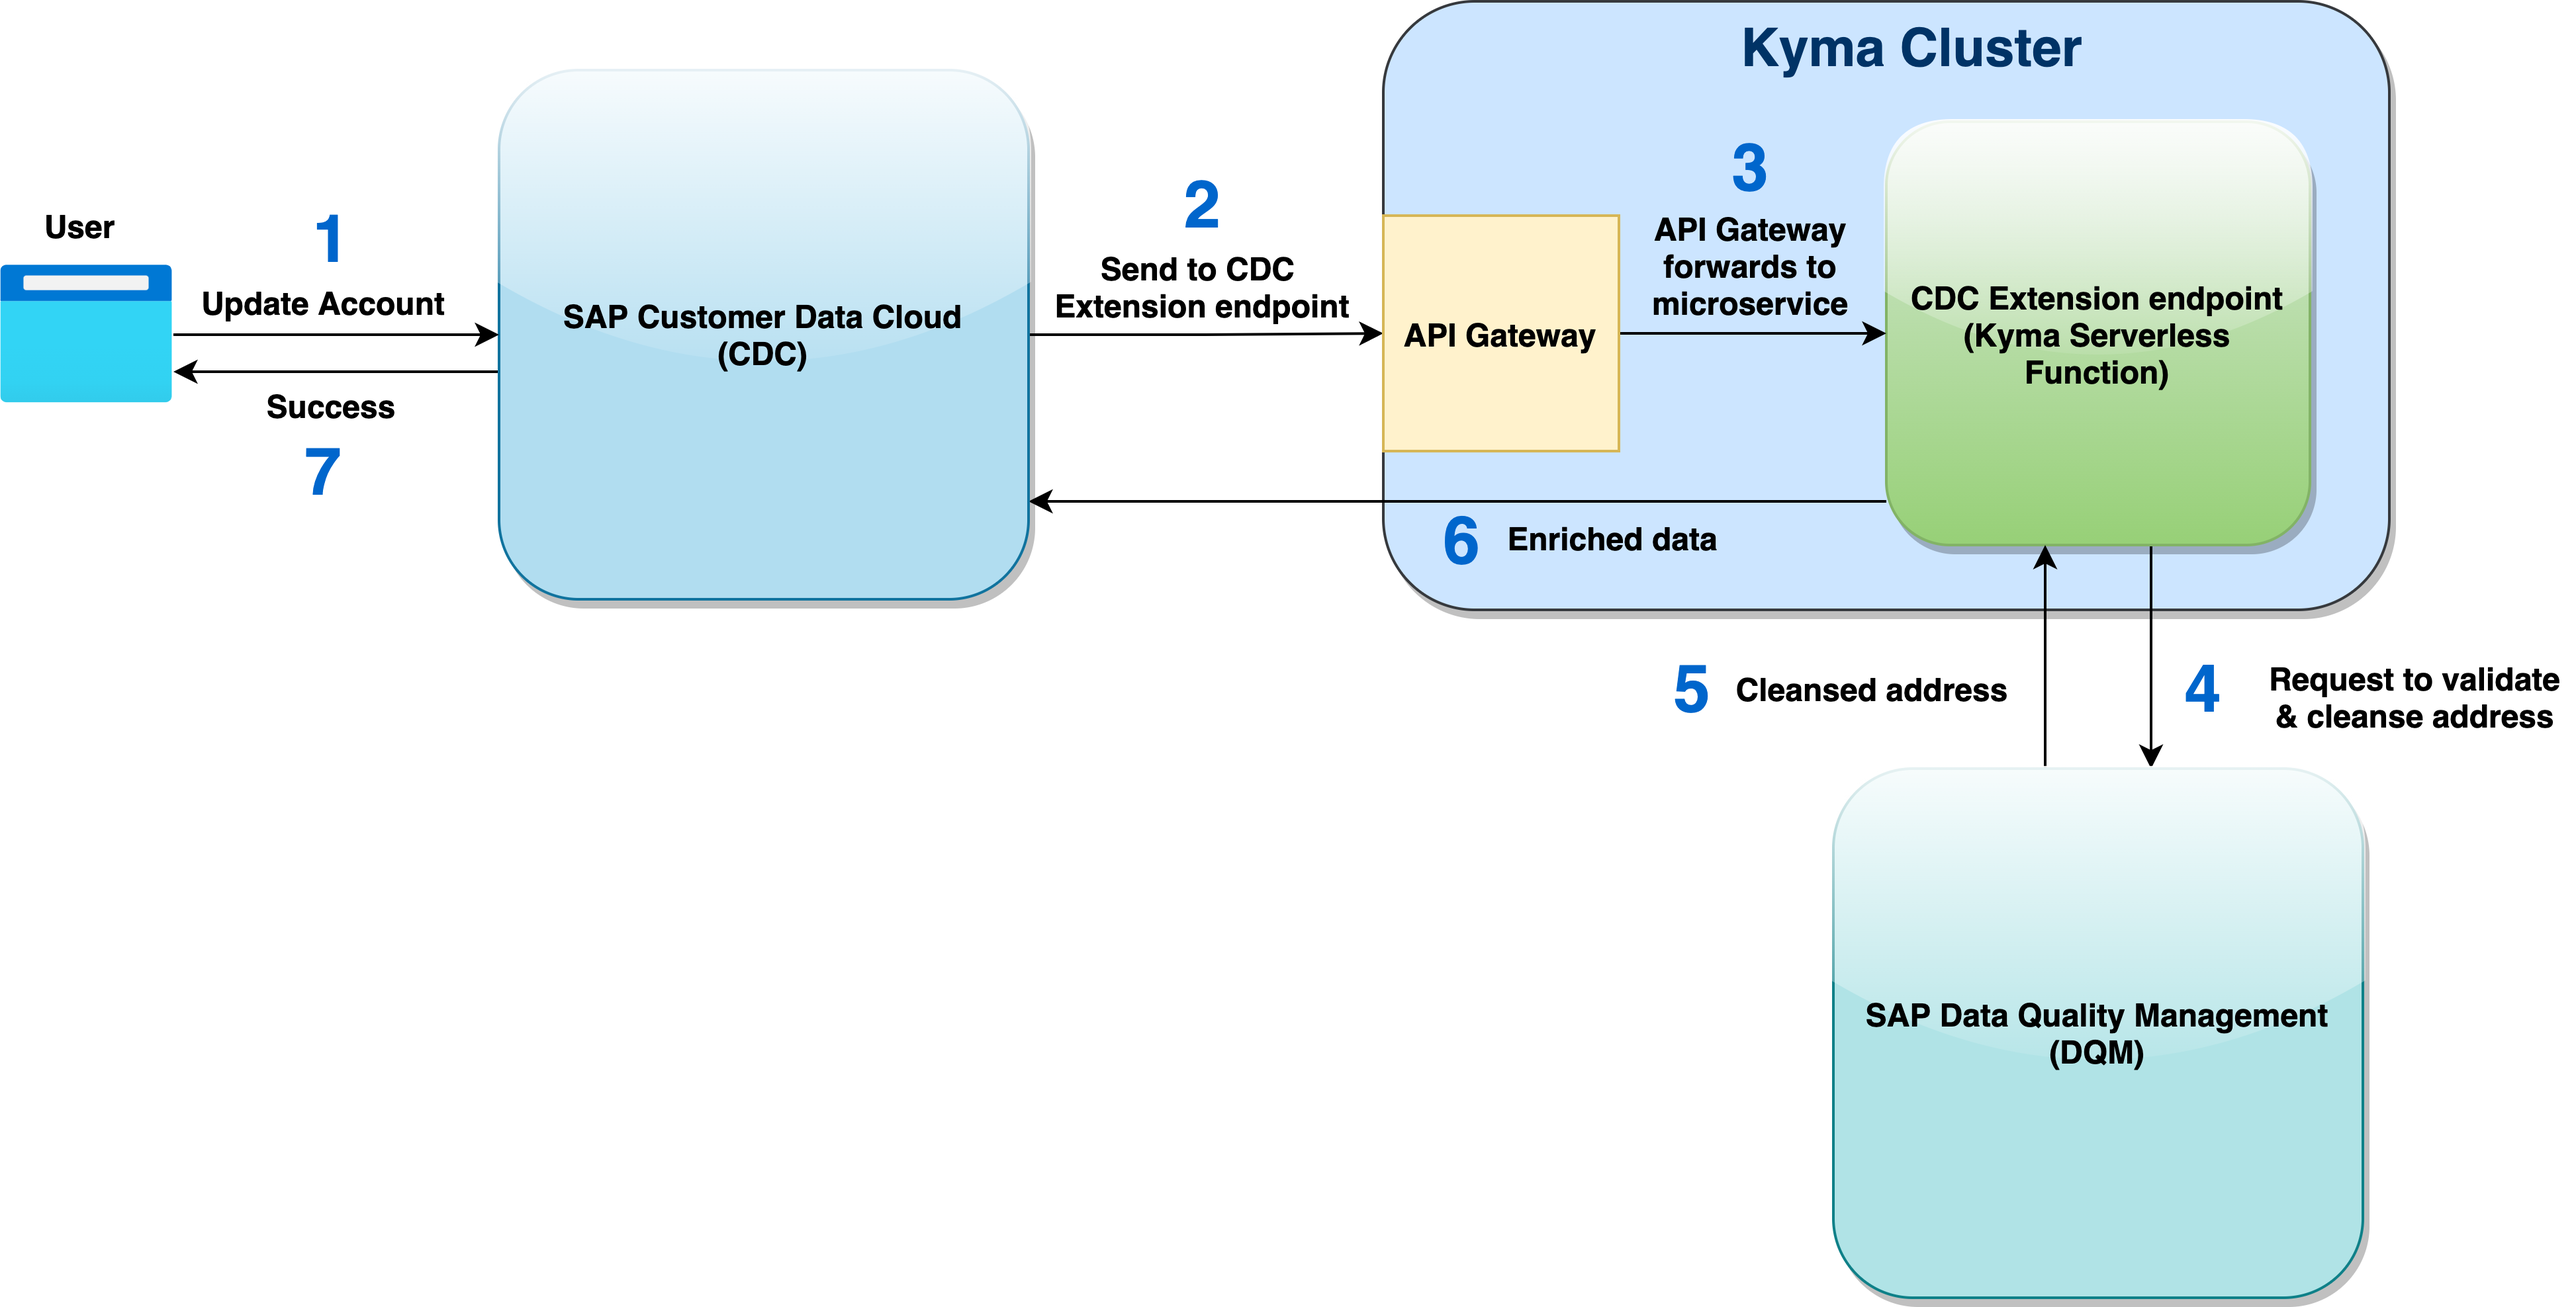
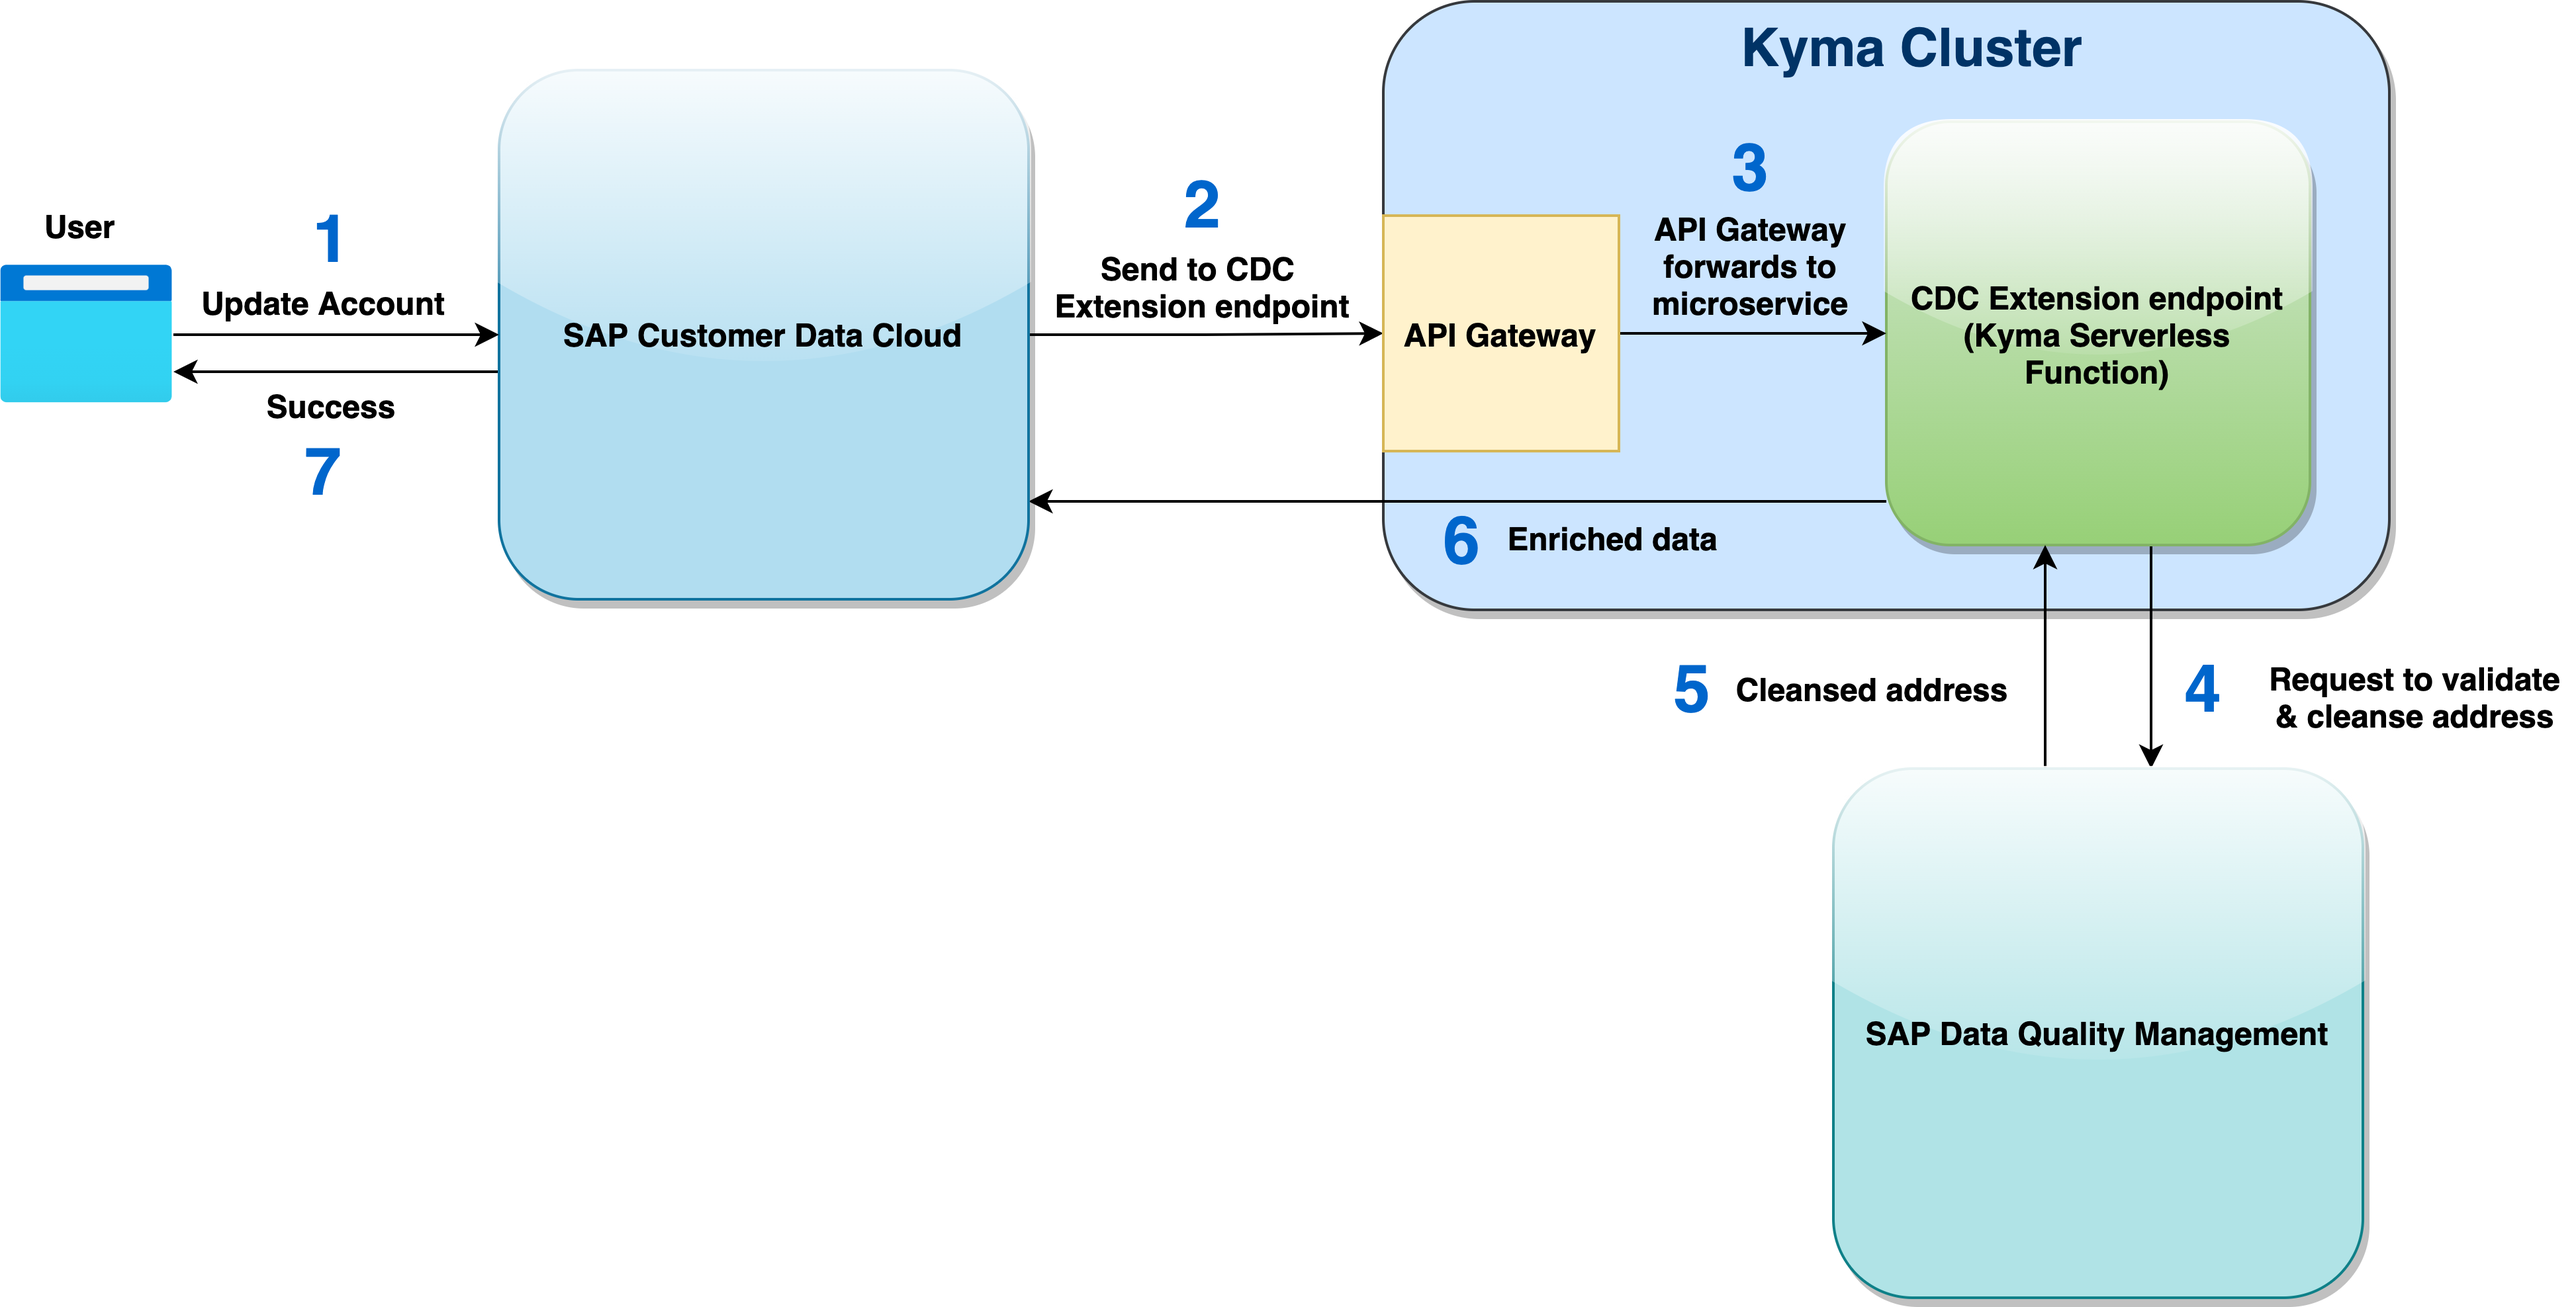
Updated documentation

Changed region(s): [[0.2176, 0.2161, 0.3731, 0.2778], [0.7151, 0.7718, 0.9016, 0.8335]]

diff --git a/cdc-extension/README.md b/cdc-extension/README.md
@@ -1,44 +1,19 @@
-# Deploying an SAP Customer Data Cloud Extension to SAP BTP, Kyma Runtime
-
-The objective of this example is to demonstrate how to setup a **Kyma serverless function** to be used as an **[SAP Customer Data Cloud](https://help.sap.com/viewer/product/SAP_CUSTOMER_DATA_CLOUD/GIGYA/en-US) (CDC; aka: Gigya) extension endpoint**.
-
-**CDC Extensions** support secure, server-side, synchronous execution of custom logic and intercept specific CDC REST API calls. They can be used to meet a wide range of business use-cases, such as to:
-
-* Prevent a user from registering with an abusive username
-* Prevent a user from registering with a disposable email address
-* Validate that zip codes match the country and state provided
-* Check that hidden fields have not been modified
-* Populate the value of a field based on the value of another field
-* Check for duplicate accounts
-* Prevent login from certain locations
-
-Currently, the following CDC REST API calls can be intercepted using CDC extensions:
-
-* **accounts.register** – Registration (OnBeforeAccountsRegister extension)
-* **accounts.login** – Login (OnBeforeAccountsLogin extension)
-* **socialize.login** – Social Login (OnBeforeSocialLogin extension)
-* **accounts.setAccountInfo** – Profile Updates (OnBeforeSetAccountInfo extension)
-* **accounts.resetPassword** – Reset Password (OnBeforeResetPassword extension)
-* **Send SMS** – Communication (OnBeforeSendSMS extension)
-
-In this example, the **accounts.setAccountInfo** REST API endpoint has been intercepted to cleanse addresses via an external SAP Data Quality Management microservice.
-
-The code of this example can be easily re-used to build any other CDC extension and deploy it to SAP BTP, Kyma Runtime or to Kyma Open Source.
-
-**Notes:**
-
-All the functionality presented here are subject to change and may be changed by SAP at any time for any reason without notice.
-For demonstration, this example uses an API Key to authenticate requests to SAP DQM. In a real-world scenario, either [OAuth 2.0](https://help.sap.com/viewer/d95546360fea44988eb614718ff7e959/Cloud/en-US/1fa6310be4e14ebb86c0411491bcff97.html) or [Client Certificate Authentication](https://help.sap.com/viewer/d95546360fea44988eb614718ff7e959/Cloud/en-US/7e983cce55604a8bb23a137483ea5dca.html) are to be used.
+# Sample SAP Customer Data Cloud Extension
 
 ## Scenario
 
-This example includes a **Kyma serverless function**, *cdc-extension*, that is exposed as a **CDC extension endpoint**, and demonstrates how to:
+This example includes a **Kyma serverless function**, *cdc-extension*, that is exposed as a **SAP Customer Data Cloud extension endpoint**, and demonstrates how to:
 
-* Create a [CDC extension](https://help.sap.com/viewer/8b8d6fffe113457094a17701f63e3d6a/GIGYA/en-US/4153ec2f70b21014bbc5a10ce4041860.html) endpoint using a [Kyma serverless function](https://kyma-project.io/docs/kyma/latest/01-overview/main-areas/serverless/svls-01-overview/#documentation-content)
+* Create an [SAP Customer Data Cloud extension](https://help.sap.com/viewer/8b8d6fffe113457094a17701f63e3d6a/GIGYA/en-US/4153ec2f70b21014bbc5a10ce4041860.html) endpoint using a [Kyma serverless function](https://kyma-project.io/docs/kyma/latest/01-overview/main-areas/serverless/svls-01-overview/#documentation-content)
 * Deploy a Kyma serverless function and an API Rule using the [Kubernetes command-line tool](https://kubernetes.io/docs/reference/kubectl/overview/)
 * Alternately, deploy a Kyma serverless function and an API Rule using the Kyma Console User Interface
 * Explore [api.sap.com](https://api.sap.com/) and try out REST API calls using a sandbox environment
 * Use the [SAP Data Quality Management microservice](https://www.sap.com/canada/products/data-quality-management.html) for location data to cleanse addresses
+
+**Notes:**
+
+* All the functionality presented here are subject to change and may be changed by SAP at any time for any reason without notice.
+* For demonstration, this example uses an API Key to authenticate requests to SAP Data Quality Management. In a real-world scenario, either [OAuth 2.0](https://help.sap.com/viewer/d95546360fea44988eb614718ff7e959/Cloud/en-US/1fa6310be4e14ebb86c0411491bcff97.html) or [Client Certificate Authentication](https://help.sap.com/viewer/d95546360fea44988eb614718ff7e959/Cloud/en-US/7e983cce55604a8bb23a137483ea5dca.html) are to be used.
 
 #### Solution Architecture
 
@@ -60,7 +35,7 @@ This example includes a **Kyma serverless function**, *cdc-extension*, that is e
 
 ## Pre-requisites
 
-- Provision [SAP Customer Data Cloud](https://www.sap.com/canada/products/crm/customer-data-management.html) (CDC; aka: Gigya) and [setup a CDC site](https://help.sap.com/viewer/8b8d6fffe113457094a17701f63e3d6a/GIGYA/en-US/41720d7370b21014bbc5a10ce4041860.html).
+- Provision [SAP Customer Data Cloud from Gigya](https://www.sap.com/canada/products/crm/customer-data-management.html) and [setup an SAP Customer Data Cloud site](https://help.sap.com/viewer/8b8d6fffe113457094a17701f63e3d6a/GIGYA/en-US/41720d7370b21014bbc5a10ce4041860.html).
 - [Get a Free Account on SAP BTP Trial](https://developers.sap.com/tutorials/hcp-create-trial-account.html).
 - [Enable SAP BTP, Kyma Runtime](https://developers.sap.com/tutorials/cp-kyma-getting-started.html).
 - [Download and install the Kubernetes Command Line Tool](https://developers.sap.com/tutorials/cp-kyma-download-cli.html#d81e7789-ced4-4df6-b4a0-132d8c637077).
@@ -78,13 +53,13 @@ This example includes a **Kyma serverless function**, *cdc-extension*, that is e
 
 2. Update the values of the following environment variables in the **./kyma-runtime-extension-samples/cdc-extension/k8s/function.yaml** file: `CDC_API_KEY`, `SAP_API_HUB_API_KEY`, `PUBLIC_KEY_KID`, `PUBLIC_KEY_N` and `PUBLIC_KEY_E`
 
-    - `CDC_API_KEY` - This is the API Key of the CDC site and can be got from the [CDC console](https://console.gigya.com/).
+    - `CDC_API_KEY` - This is the API Key of the SAP Customer Data Cloud site and can be got from the [SAP Customer Data Cloud console](https://console.gigya.com/).
     
     - `SAP_API_HUB_API_KEY` - This is the API Key of SAP API Business Hub. Login to [api.sap.com](https://api.sap.com/). Then, go to your profile settings and click on **Show API Key** to get the value for this variable.
 
-	Go to "https://accounts.`CDC_Data_Center`/accounts.getJWTPublicKey?apiKey=`Your-CDC-Site-API-Key`".
+	Go to "https://accounts.`SAP_Customer_Data_Cloud_Data_Center`/accounts.getJWTPublicKey?apiKey=`Your_SAP_Customer_Data_Cloud_Site_API_Key`".
 	
-	[Find your CDC Data Center](https://help.sap.com/viewer/8b8d6fffe113457094a17701f63e3d6a/GIGYA/en-US/41573b6370b21014bbc5a10ce4041860.html). Replace `CDC_Data_Center` with your Data Center (For example, the US Data Center is **us1.gigya.com**). Replace **Your-CDC-Site-API-Key** with your CDC site's API Key.
+	[Find your SAP Customer Data Cloud Data Center](https://help.sap.com/viewer/8b8d6fffe113457094a17701f63e3d6a/GIGYA/en-US/41573b6370b21014bbc5a10ce4041860.html). Replace **SAP_Customer_Data_Cloud_Data_Center** with your Data Center (For example, the US Data Center is **us1.gigya.com**). Replace **Your_SAP_Customer_Data_Cloud_Site_API_Key** with your SAP Customer Data Cloud site's API Key.
 	
 	The response JSON body will also include the following fields: **kid**, **n** and **e**
 
@@ -116,7 +91,7 @@ This example includes a **Kyma serverless function**, *cdc-extension*, that is e
 	
 	> 
 	- Deploy the Kyma serverless function
-	- Expose the serverless function using a Kyma API Rule that will serve as the CDC Extension endpoint
+	- Expose the serverless function using a Kyma API Rule that will serve as the SAP Customer Data Cloud Extension endpoint
 
 	**Alternately, deploy the Kyma serverless function and API Rule using the Kyma Console User Interface:**
 	
@@ -127,11 +102,11 @@ This example includes a **Kyma serverless function**, *cdc-extension*, that is e
 
 5. Go to the Kyma Console -> **cdc** namespace -> **Discovery & Network** -> **API Rules**. Copy the **host** URL of the cdc-extension API Rule. 
 
-6. Then, go to the [CDC Console](https://console.gigya.com/). Select your site and click on **Extensions** -> **Add**. 
+6. Then, go to the [SAP Customer Data Cloud Console](https://console.gigya.com/). Select your site and click on **Extensions** -> **Add**. 
 
 7. Enter any Name, select the API as **accounts.setAccountInfo** (OnBeforeSetAccountInfo), enter any **Description**, paste the **host** URL from step 5 above and click on **Advanced**. Then, enter the **Timeout** as 1000 ms, select the **Fallback Policy** as **FailOnAnyError** and click **Save**.
 
-8. In the CDC Console, select your site and click on **Schema** in the left menu under **Registration-as-a-Service**.
+8. In the SAP Customer Data Cloud Console, select your site and click on **Schema** in the left menu under **Registration-as-a-Service**.
 
 9. Set the following schema fields to be **Required** and select **Write Access** as **clientModify** for all of them. Then, click **Save Changes**.
 	* profile.address
@@ -140,13 +115,13 @@ This example includes a **Kyma serverless function**, *cdc-extension*, that is e
 	* profile.zip
 	* profile.country
 
-10. In the [CDC Console](https://console.gigya.com/), select your site and click on **Screen-Sets** in the left menu under **Registration-as-a-Service**.
+10. In the [SAP Customer Data Cloud Console](https://console.gigya.com/), select your site and click on **Screen-Sets** in the left menu under **Registration-as-a-Service**.
 
 11. Click on the **Default-RegistrationLogin** screen-set.
 
 12. Select the **Registration Completion** screen from the dropdown.
 
-13. Add four Textbox components and one Dropdown component to the CDC **Registration Completion** screen and map them to the following fields.
+13. Add four Textbox components and one Dropdown component to the SAP Customer Data Cloud **Registration Completion** screen and map them to the following fields.
 	* profile.address
 	* profile.city
 	* profile.state
@@ -155,15 +130,15 @@ This example includes a **Kyma serverless function**, *cdc-extension*, that is e
 
 ## Steps to test the solution
 
-1. Register an account in your CDC site. 
+1. Register an account in your SAP Customer Data Cloud site. 
 
-	**Note:** This can also be done by previewing the registration screen of the **Default-RegistrationLogin** screen-set in the [CDC console](https://console.gigya.com/).
+	**Note:** This can also be done by previewing the registration screen of the **Default-RegistrationLogin** screen-set in the [SAP Customer Data Cloud console](https://console.gigya.com/).
  
 2. The **Registration Completion** screen will be displayed. Enter an invalid address and click the Submit button. An error message will be returned.
 
 4. Fix the address and click the **Submit** button. The form should be processed successfully.
  
-5. View the details of the account that was registered in the **Identity Access** screen of the CDC console. It can be observed that the address of the user has been cleansed.
+5. View the details of the account that was registered in the **Identity Access** screen of the SAP Customer Data Cloud console. It can be observed that the address of the user has been cleansed.
 
 ## Troubleshooting steps
 
